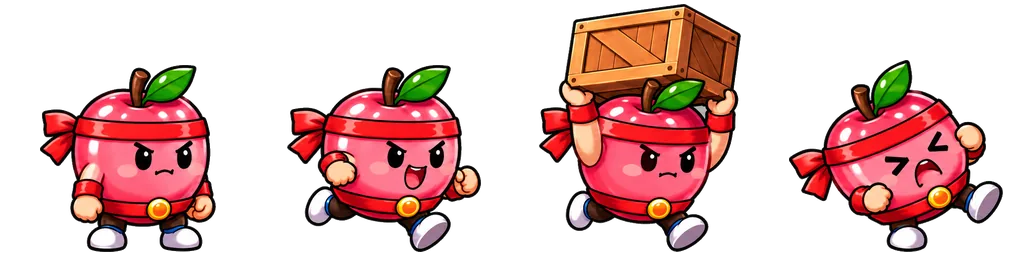
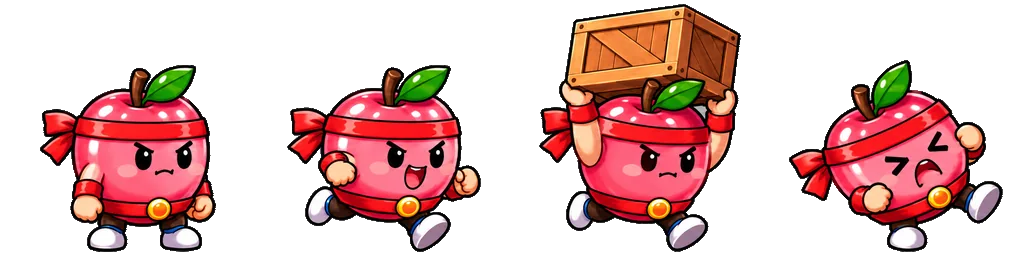
assets: fill pinholes and drop specks in character strips

diff --git a/tools/art/cut_art.py b/tools/art/cut_art.py
@@ -42,7 +42,7 @@ def key_alpha(rgb, key, tol=28, pocket_tol=None):
         m = lab[sl] == i
         neutral = chroma[sl][m].mean() <= 4 and d[sl][m].mean() <= 10
         keyish = pocket_tol is not None and d[sl][m].mean() <= pocket_tol
-        if m.sum() >= 40 and (neutral or keyish):
+        if (neutral and m.sum() >= 150) or (keyish and m.sum() >= 40):
             bg[sl] |= m
     a = np.where(bg, 0, 255).astype(np.uint8)
     a[ndi.binary_opening(a > 0, iterations=1) == 0] = 0  # drop 1px specks
@@ -69,6 +69,24 @@ def magenta_clean(rgba):
     keep = ndi.binary_opening(rgba[..., 3] > 0, iterations=1)
     rgba[~keep, 3] = 0
     return rgba
+
+
+def tidy_alpha(img, max_hole=120, min_speck=30):
+    """After resizing: binarise alpha, fill small enclosed holes, drop tiny floating specks."""
+    a = np.array(img)
+    solid = a[..., 3] >= 128
+    hl, hn = ndi.label(ndi.binary_fill_holes(solid) & ~solid)
+    if hn:
+        sizes = ndi.sum(np.ones_like(solid), hl, range(1, hn + 1))
+        small = np.isin(hl, [i + 1 for i, s in enumerate(sizes) if s <= max_hole])
+        a[small, :3] = ndi.grey_dilation(a[..., :3], size=(3, 3, 1))[small]
+        solid |= small
+    sl, sn = ndi.label(solid)
+    if sn:
+        sizes = ndi.sum(solid, sl, range(1, sn + 1))
+        solid &= ~np.isin(sl, [i + 1 for i, s in enumerate(sizes) if s < min_speck])
+    a[..., 3] = np.where(solid, 255, 0)
+    return Image.fromarray(a, "RGBA")
 
 
 def objects(alpha, dilate, min_area):
@@ -108,6 +126,7 @@ for name in CHARS:
         x = k * CELL + (CELL - img.width) // 2
         y = CELL - 4 - img.height  # feet on a shared baseline
         sheet.alpha_composite(img, (x, y))
+    sheet = tidy_alpha(sheet)
     f = OUT / f"{name}.webp"
     sheet.save(f, "WEBP", quality=82, method=6)
     manifest["characters"][name] = {"file": f.name, "frameWidth": CELL, "frameHeight": CELL,

diff --git a/tools/art/holes.py b/tools/art/holes.py
@@ -1,0 +1,21 @@
+"""List enclosed transparent holes and small opaque specks per character frame. usage: python -I holes.py OUT_DIR"""
+import json
+import sys
+from pathlib import Path
+
+import numpy as np
+from PIL import Image
+from scipy import ndimage as ndi
+
+OUT = Path(sys.argv[1])
+m = json.loads((OUT / "manifest.json").read_text())
+cell = m["cell"]
+for name, c in m["characters"].items():
+    rgba = np.array(Image.open(OUT / c["file"]).convert("RGBA"))
+    for k, pose in enumerate(c["frames"]):
+        f = rgba[:, k * cell:(k + 1) * cell, 3] > 0
+        hl, hn = ndi.label(ndi.binary_fill_holes(f) & ~f)
+        hs = sorted((int(s) for s in ndi.sum(np.ones_like(f), hl, range(1, hn + 1))), reverse=True) if hn else []
+        sl, sn = ndi.label(f)
+        ss = sorted((int(s) for s in ndi.sum(f, sl, range(1, sn + 1))), reverse=True) if sn else []
+        print(f"{name:20} {pose:6} holes={hs[:8]} n={hn} specks<30={sum(1 for s in ss if s < 30)} pieces={ss[:4]}")

diff --git a/tools/art/README.md b/tools/art/README.md
@@ -10,7 +10,7 @@ Owner-approved concept sheets (2026-10-14) are cut into game files under `apps/c
 - Sources (not committed, 2+ MB each): `~/Code/team-buddies-art-staging/task7-w1/props.png`, `task7-w2/*.png`.
 - Needs Python with numpy, scipy, pillow (WebP).
 
-Budget: all of `public/art` <= 3 MB (currently ~0.93 MB).
+Budget: all of `public/art` <= 3 MB (currently ~0.78 MB).
 
 Known art notes for Task 8: the crate drawn in the `carry` frames varies per character; draw `prop_crate.webp` over
 the carry frame if a uniform crate is wanted. `fruit_longan` and `dessert_khanomchan` are the buddy units — scale them
